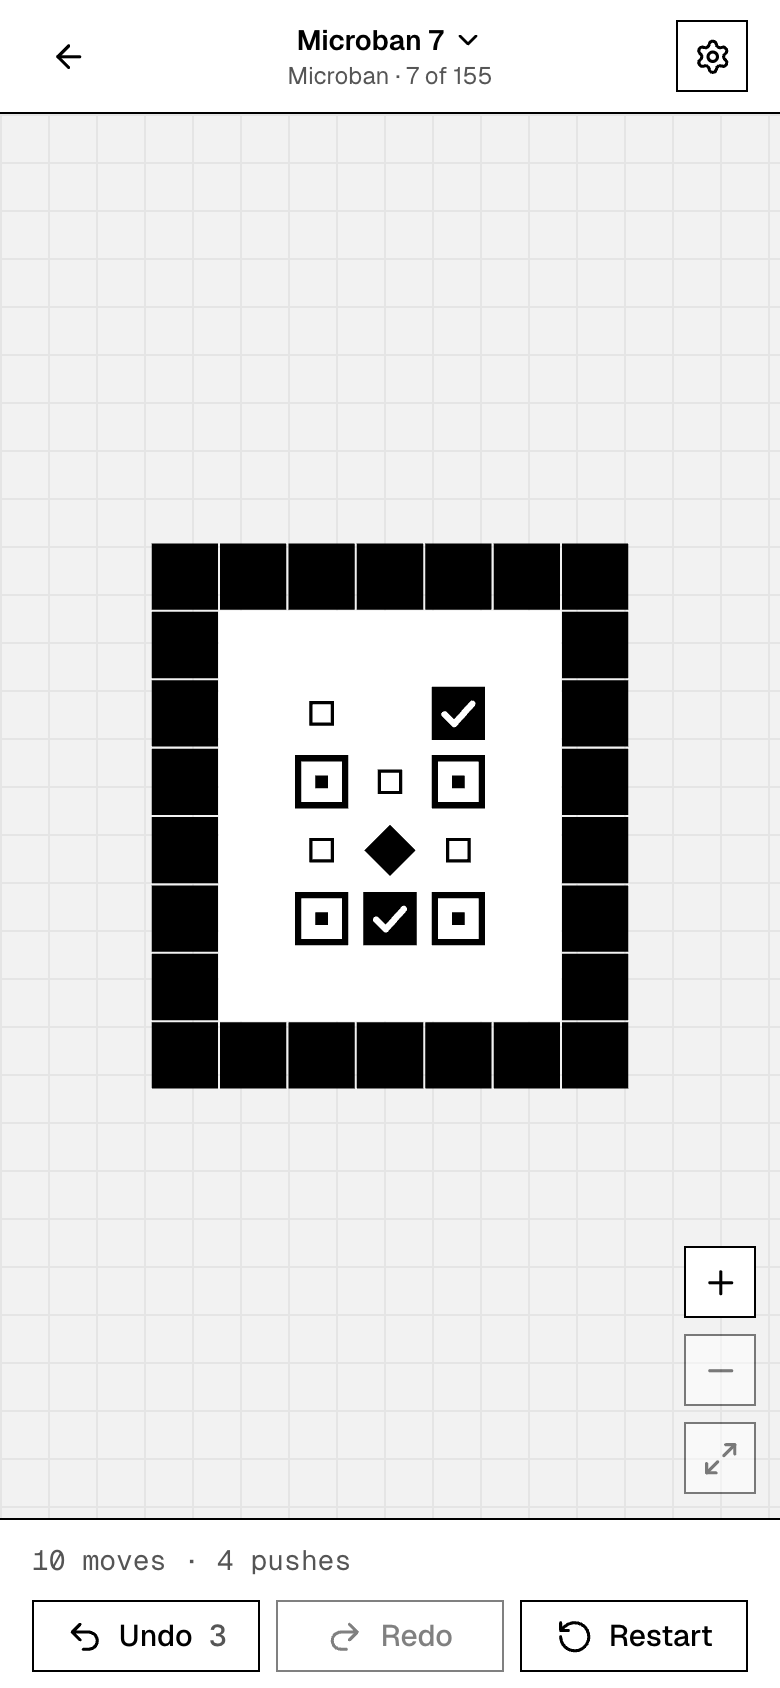
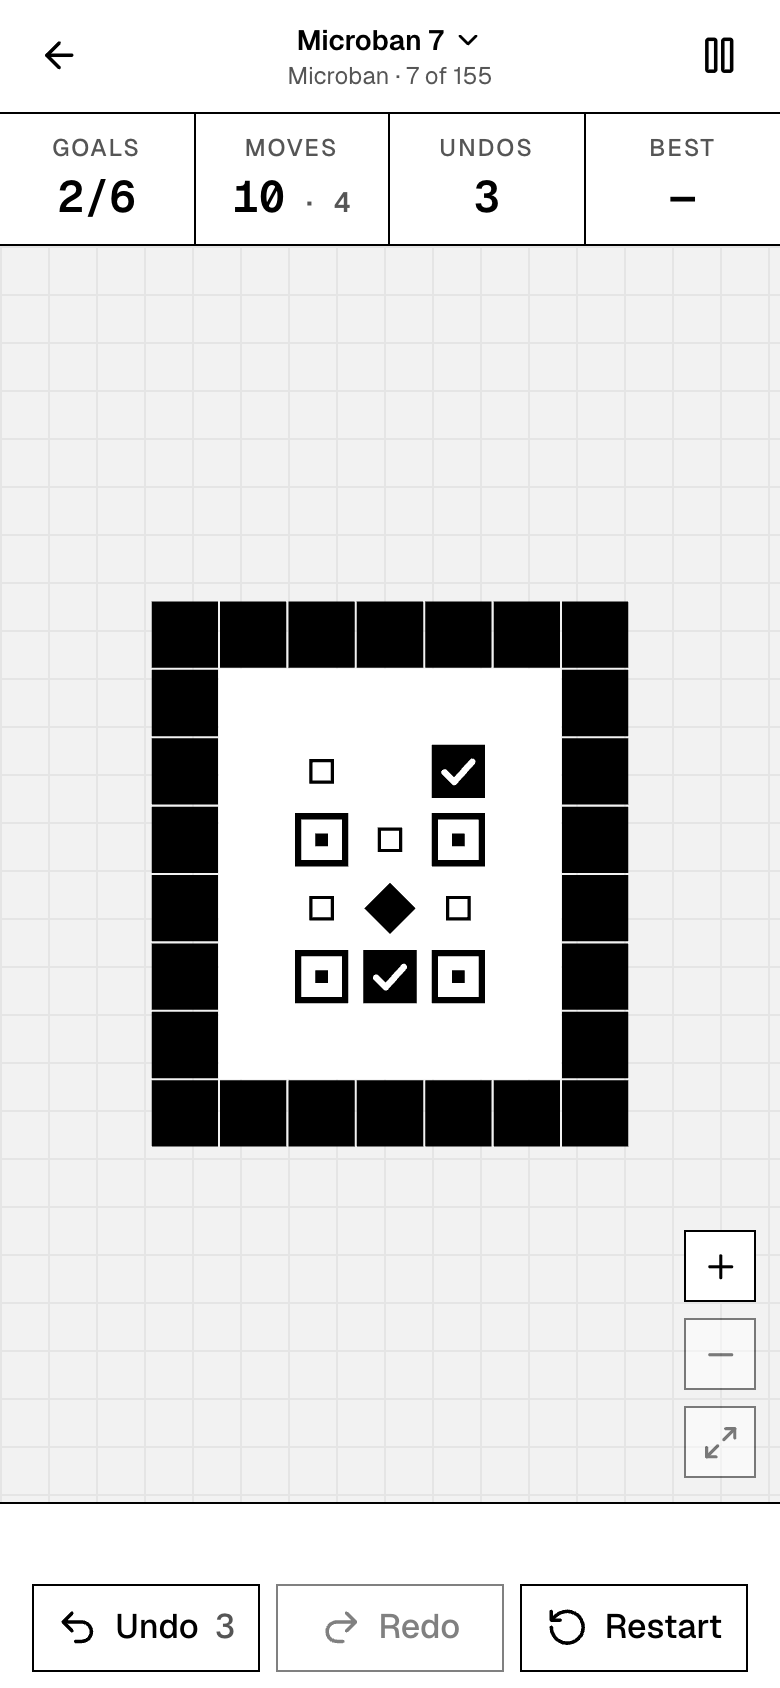
docs: the phone-first structure, in the README, wiki and changelog

diff --git a/docs/Architecture.md b/docs/Architecture.md
@@ -11,9 +11,35 @@ Sokobanko is one Nuxt 4 app at the repository root, plus two TypeScript packages
 | `scripts/` | Applying the migrations, importing a level collection, and finding solutions for the tests |
 | `docs/` | This wiki, published from `main` |
 
+## Pages and navigation
+
+The app is built phone-first:
+- **Phones** get a tab bar at the bottom with **Play**, **Progress** and **Help**.
+- **Tablets** get the same three as a rail down the left, from `md`.
+- **Desktops** get a sidebar, from `lg`.
+
+Settings (theme, sound) is an action, not a section, so it opens as a sheet: from a page's header on phones, from the sidebar elsewhere, and from the pause menu in the game. Every control a finger lands on is at least 44px, and the bars pad for the notch and home indicator (`viewport-fit=cover`).
+
+| Route | Page | Rendered | Indexed |
+| --- | --- | --- | --- |
+| `/` | **The map**: a Continue card, then each collection as a winding path of level nodes | On the server; your progress fills in after load (`ProgressSync` → `useProgressView`) | yes |
+| `/levels/:id` | **A level's card**: the board, your best or what unlocks it, and Play. A sheet over the map on phones, a panel beside it on desktops | On the server, with the map behind it | yes |
+| `/play/:id` | **The game**: a HUD (goals, moves, undos, best), the board, Undo, Redo and Restart, a pause menu, and Level complete | In the browser | no |
+| `/play` | The next level, or the all-solved celebration | In the browser | no |
+| `/progress` | Solved count, totals, completed levels | In the browser | no |
+| `/help` | How to play, the controls, the FAQ, About | On the server | yes |
+
+`/levels`, `/profile` and `/faq` redirect (301) to `/`, `/progress` and `/help`.
+
+**Search engines:**
+- Every indexed page has its own title, description, canonical URL and link preview (`usePageSeo`, `public/og.png`). The map also has `VideoGame` structured data.
+- `/sitemap.xml` lists the map, Help and every level card, and `/robots.txt` points to it.
+- The game and Progress send `X-Robots-Tag: noindex`.
+- The site's address is `runtimeConfig.public.siteUrl` (`NUXT_PUBLIC_SITE_URL`).
+
 ## Playing a level
 
-1. **`/play/:id`** renders in the browser only. It takes the level from the levels collection and mounts the board from `@sokobanko/game`.
+1. **`/play/:id`** renders in the browser only. It takes the level from the levels collection and mounts the board from `@sokobanko/game`. A locked level goes to its card instead.
 2. **Each move, undo and restart** reports the run: the moves, the pushes, and the **input log**, made of LURD letters, uppercase for pushes, with `z` for each undo. A half-played run is kept in `localStorage`, so a reload resumes it with its undos already used.
 3. **On a solve,** the run is recorded in the `runs` collection at once, and the next level in its collection unlocks, whether or not the server can be reached.
 

diff --git a/CHANGELOG.md b/CHANGELOG.md
@@ -9,6 +9,30 @@ publishes the image `vindotski/sokobanko` as `X.Y.Z`, `X.Y` and `latest`, and de
 
 ## [Unreleased]
 
+### Changed
+- **Rebuilt phone-first, after Candy Crush's flow and Apple's Human Interface Guidelines.** Every
+  feature is kept:
+  - **Navigation:** on phones a tab bar at the bottom (Play, Progress, Help); on tablets a rail,
+    and on desktops a sidebar. Settings (theme and sound together) opens as a sheet from any page.
+  - **The map is home:** a Continue card for your next level, then each collection as a winding
+    path of numbered levels, solved, up next or locked, scrolled to where you are.
+  - **Level cards:** tapping a level opens its card, a sheet on phones or a panel beside the map
+    on desktops, with the board, your best or what unlocks it, and a big Play. Each card has its
+    own address, `/levels/<id>`.
+  - **The game:** a HUD (goals, moves, undos, best), Undo, Redo and Restart at 44px, a pause menu
+    (resume, restart, levels, theme, sound, controls, the map), and a Level complete screen with a
+    big Next. On desktops the counts and controls sit beside the board. A locked level goes to
+    its card.
+  - **Progress** (was the profile) and **Help** (the FAQ, with how to play, the controls and
+    About) are sections of their own. `/levels`, `/profile` and `/faq` redirect.
+  - **Safe areas:** the bars pad for the notch and home indicator.
+- **Search engines can find the levels:**
+  - The map and every level card are server-rendered, with titles, descriptions, canonical
+    links and link previews.
+  - There's a sitemap, `robots.txt`, `VideoGame` structured data, a favicon and an Apple touch
+    icon.
+  - The game and Progress aren't indexed.
+
 ## [0.6.0] - 2026-11-20
 
 ### Added

diff --git a/README.md b/README.md
@@ -8,11 +8,11 @@ The classic box-pushing puzzle in the browser, with server-verified results and 
 [![Release](https://img.shields.io/github/v/release/vindotski/sokobanko)](https://github.com/vindotski/sokobanko/releases)
 [![License: AGPL-3.0-only](https://img.shields.io/badge/license-AGPL--3.0--only-blue)](LICENSE)
 
-| The play screen, light and dark | |
+| On a phone | |
 | --- | --- |
-| ![A Microban level half solved in the light theme: black walls, boxes on goals marked with ticks, and Undo, Redo and Restart below the board](.github/assets/play-light.png) | ![The same level in the dark theme, with the board's colours inverted](.github/assets/play-dark.png) |
-| **The Levels page** | **On a phone** |
-| ![The Levels page: a row of level cards per collection, each with its best result](.github/assets/levels.png) | ![The play screen on a phone, with the controls within thumb reach](.github/assets/play-phone.png) |
+| ![The map: a Continue card for the next level, then each collection as a winding path of numbered levels, solved ones filled with a tick, and a tab bar for Play, Progress and Help at the bottom](.github/assets/map-phone.png) | ![The game on a phone: the goals, moves, undos and best along the top, the board, and Undo, Redo and Restart in thumb reach](.github/assets/play-phone.png) |
+| **On a desktop** | **In dark** |
+| ![The map on a desktop: a sidebar, the level path, and a level card beside it with a big Play](.github/assets/desktop-light.png) | ![The game on a desktop in the dark theme, with the counts and controls in a panel beside the board](.github/assets/desktop-dark.png) |
 
 ## What it is
 

diff --git a/docs/Deploying-on-Spotcraft.md b/docs/Deploying-on-Spotcraft.md
@@ -56,11 +56,11 @@ The `deploy` job runs on version tags, and deploys once GitHub's `production` en
 ## Smoke test
 
 In a fresh private window:
-- **The first visit sets no cookie.** `/play/two-boxes` shows the lock screen.
+- **The first visit sets no cookie.** `/play/two-boxes` goes to its card, which says it's locked.
 - **Solving First Push** (→ five times) makes a guest in the user pool (`/_spotcraft/auth/sign-in/anonymous`), shows "Your best: 5 moves", and sets the HttpOnly session cookie.
 - **After a reload:**
-  - `/levels` shows First Push as solved, and `/play` opens Big Room.
-  - The profile says "Playing since …".
+  - The map shows First Push as solved, and `/play` opens Big Room.
+  - Progress says "Playing since …".
 - **In the dashboard,** the app is healthy and the **Users** page counts the guest.
 - **The browser console** shows no errors, and no CSP warnings.
 - **`curl -I https://sokobanko.app`** shows `content-security-policy` and `x-frame-options: DENY`.

diff --git a/docs/Development.md b/docs/Development.md
@@ -74,7 +74,7 @@ Only add levels whose terms allow it, and keep their credit (the README lists th
 
 - **Where things are:** stories live in `stories/`: `ui/` for the shadcn-vue primitives, `app/` for Sokobanko's components, and `docs/` for the Introduction and the design tokens (colours, type, sizing, the board's pieces). Level fixtures are in `stories/fixtures/levels.ts`. Stories stay out of `app/components`, because Nuxt would register them as components there.
 - **Toolbars:** **Theme** switches light and dark (the `dark` class on `<html>`, as color mode sets it), and **Viewport** switches phone and desktop.
-- **Leaving out:** components that read the TanStack collections or the server (the pages, `PlayButton`) aren't storied.
+- **Leaving out:** components that read the TanStack collections or the server (the pages, `ProgressSync`) aren't storied.
 
 ### Every story is a test
 

diff --git a/docs/Getting-Started.md b/docs/Getting-Started.md
@@ -16,7 +16,7 @@ pnpm dev
 - **`pnpm exec spotcraft dev`** (from `@kodentuzo/spotcraft`) starts a stack for this checkout that's set up like a Spotcraft server: Postgres with the `app_sokobanko` schema, the user pool, and Mailpit. It writes the settings to `.env` at the repository root, then runs `pnpm db:migrate` (from `spotcraft.json`), which applies the migrations and with them the levels.
 - **`pnpm dev`** serves the app at http://localhost:3000.
 
-Solve the first level, and the browser makes you a guest in the local user pool. Your best then shows on the Levels page and the profile.
+Solve the first level, and the browser makes you a guest in the local user pool. Your best then shows on the map and in Progress.
 
 ## Managing the stack
 

diff --git a/docs/Self-Hosting.md b/docs/Self-Hosting.md
@@ -70,4 +70,4 @@ The game still runs without a user pool: every level plays, and progress is kept
 
 ## Checking it works
 
-Follow the smoke test in [Deploying on Spotcraft](Deploying-on-Spotcraft.md#smoke-test). In a fresh private window, solving First Push should create a guest (`/_spotcraft/auth/sign-in/anonymous`), and after a reload the Levels page should show it as solved.
+Follow the smoke test in [Deploying on Spotcraft](Deploying-on-Spotcraft.md#smoke-test). In a fresh private window, solving First Push should create a guest (`/_spotcraft/auth/sign-in/anonymous`), and after a reload the map should show it as solved.
